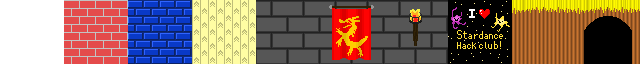
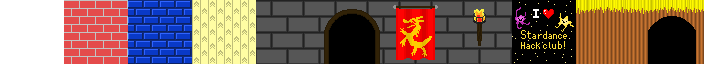
Added a castle gate texture and made it so that the player can walk through walls when the hud is open

diff --git a/3d.py b/3d.py
@@ -96,7 +96,7 @@ def get_image(sheet, frame, width, height, scale_x, scale_y, color):
 	return image
 
 tile_selection = []
-for i in range(10):
+for i in range(11):
     tile_selection.append(get_image(wall_image, i, 64,64,1,1, None))
 
 while True:
@@ -252,47 +252,48 @@ while True:
  
 
 # Player collsion 
-    if player_tile_x < world_size_y and player_tile_y >= 0:
-        if player_tile_x < world_size_x and player_tile_x >= 0:
+    if hud == False:
+        if player_tile_x < world_size_y and player_tile_y >= 0:
+            if player_tile_x < world_size_x and player_tile_x >= 0:
 
-            # The position of the player in a tile from 0 - 16
-            player_local_tile_pos_x = player_x-(player_tile_x*tile_size_x)
-            player_local_tile_pos_y = player_y-(player_tile_y*tile_size_y)
+                # The position of the player in a tile from 0 - 16
+                player_local_tile_pos_x = player_x-(player_tile_x*tile_size_x)
+                player_local_tile_pos_y = player_y-(player_tile_y*tile_size_y)
 
-            # Checks if the player goes out of the bounds of the world and fixes their position
-            if player_tile_y == 0 and player_local_tile_pos_y < 1:
-                player_y = float(past_player_y)
-            if player_tile_y == world_size_y-1 and player_local_tile_pos_y > tile_size_y-1:
-                player_y = float(past_player_y)
-
-            if player_tile_x == 0 and player_local_tile_pos_x < 1:
-                player_x = float(past_player_x)
-            if player_tile_x == world_size_x-1 and player_local_tile_pos_x > tile_size_x-1:
-                player_x = float(past_player_x)
-
-            # Checks if a player has hit the side of a block and fixes their position
-            if not player_tile_y == 0:
-                if not world_data[player_tile_y-1][player_tile_x] == 0 and player_local_tile_pos_y < 1:
+                # Checks if the player goes out of the bounds of the world and fixes their position
+                if player_tile_y == 0 and player_local_tile_pos_y < 1:
+                    player_y = float(past_player_y)
+                if player_tile_y == world_size_y-1 and player_local_tile_pos_y > tile_size_y-1:
                     player_y = float(past_player_y)
 
-            if not player_tile_y == world_size_y-1:
-                if not world_data[player_tile_y+1][player_tile_x] == 0 and player_local_tile_pos_y > tile_size_y-1:
-                    player_y = float(past_player_y)
-
-            if not player_tile_x == 0:
-                if not world_data[player_tile_y][player_tile_x-1] == 0 and player_local_tile_pos_x < 1:
+                if player_tile_x == 0 and player_local_tile_pos_x < 1:
+                    player_x = float(past_player_x)
+                if player_tile_x == world_size_x-1 and player_local_tile_pos_x > tile_size_x-1:
                     player_x = float(past_player_x)
 
-            if not player_tile_x == world_size_x-1:
-                if not world_data[player_tile_y][player_tile_x+1] == 0 and player_local_tile_pos_x > tile_size_x-1:
-                    player_x = float(past_player_x)
+                # Checks if a player has hit the side of a block and fixes their position
+                if not player_tile_y == 0:
+                    if not world_data[player_tile_y-1][player_tile_x] == 0 and player_local_tile_pos_y < 1:
+                        player_y = float(past_player_y)
+
+                if not player_tile_y == world_size_y-1:
+                    if not world_data[player_tile_y+1][player_tile_x] == 0 and player_local_tile_pos_y > tile_size_y-1:
+                        player_y = float(past_player_y)
+
+                if not player_tile_x == 0:
+                    if not world_data[player_tile_y][player_tile_x-1] == 0 and player_local_tile_pos_x < 1:
+                        player_x = float(past_player_x)
+
+                if not player_tile_x == world_size_x-1:
+                    if not world_data[player_tile_y][player_tile_x+1] == 0 and player_local_tile_pos_x > tile_size_x-1:
+                        player_x = float(past_player_x)
 
     # Limits the player's selection to the avalable tiles
     for i in range(4):
-        if tile_select[i] > 9:
+        if tile_select[i] > 10:
             tile_select[i] = 1
         if tile_select[i] < 1:
-            tile_select[i] = 9
+            tile_select[i] = 10
 
     
     screen.fill((0,0,0))
